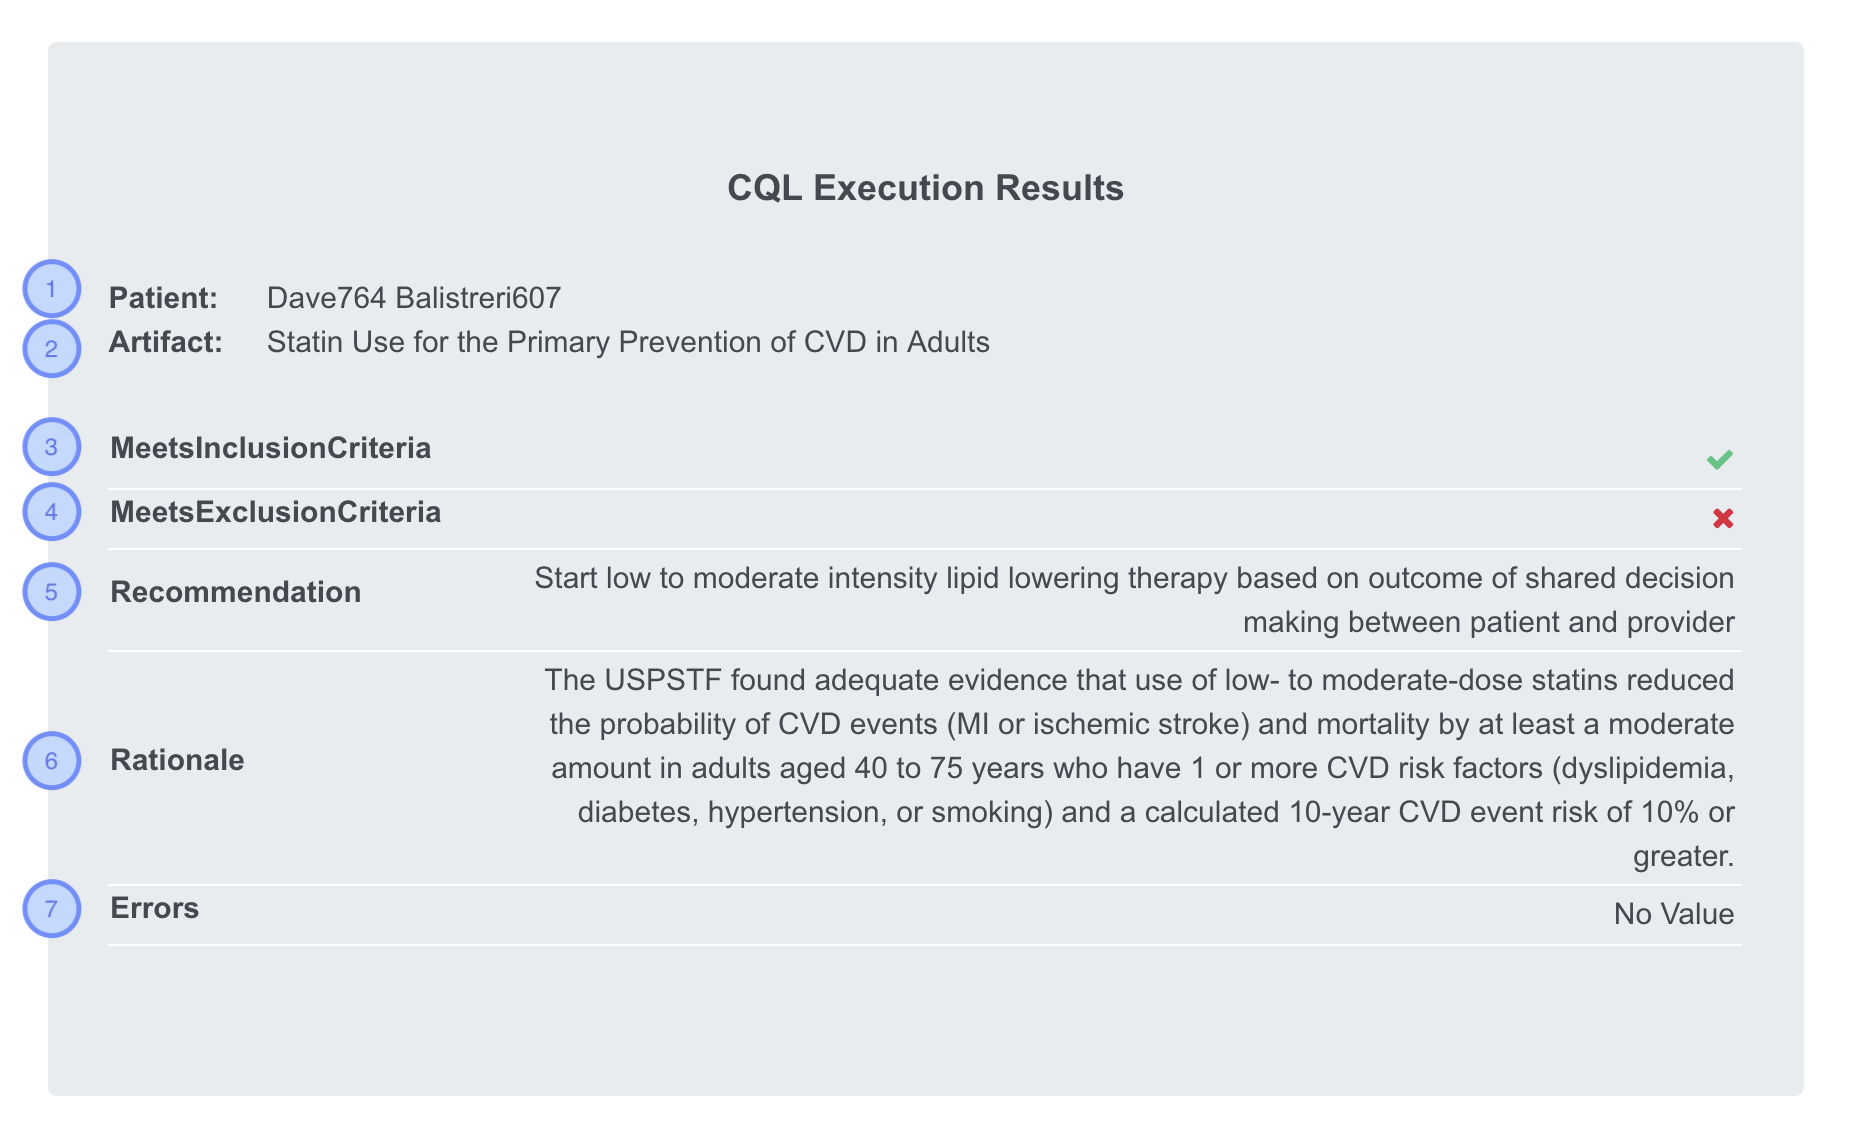
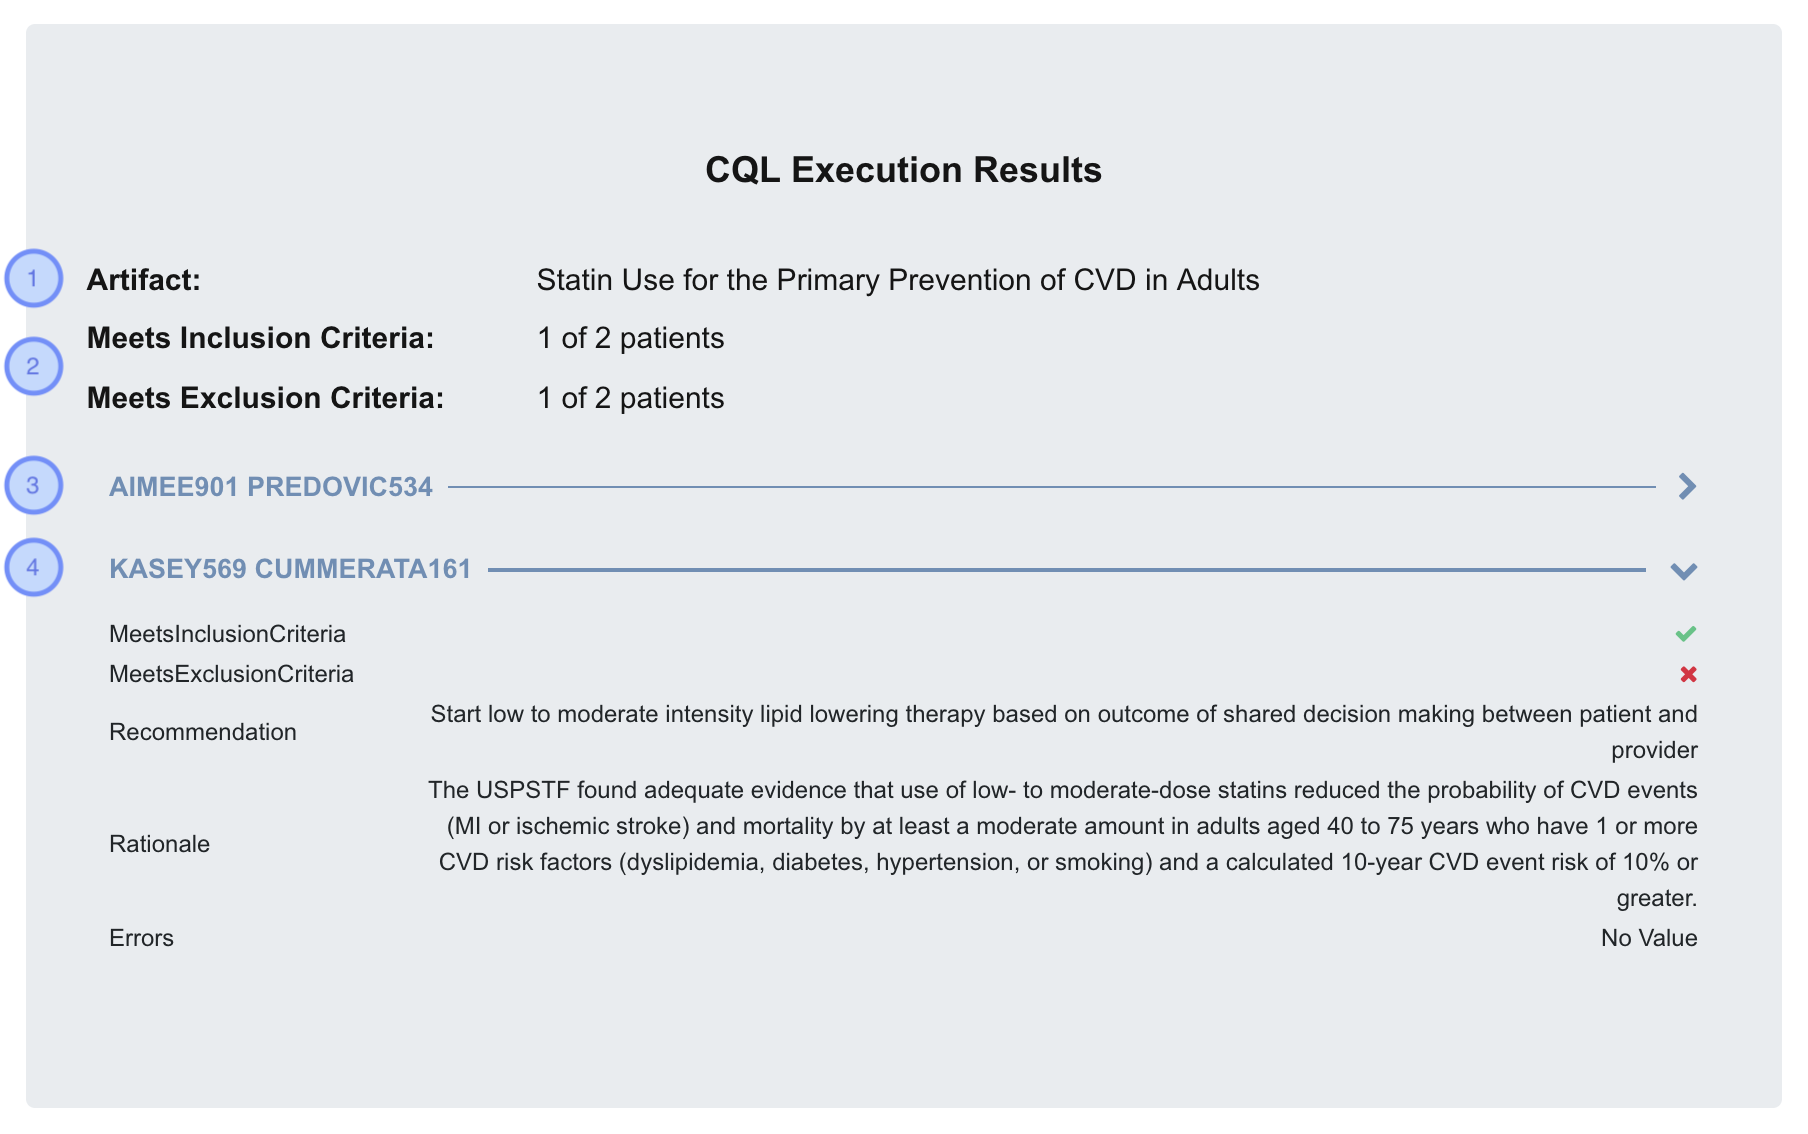
Update user guide to reflect multi-patient testing changes

diff --git a/frontend/src/components/UserGuide.js b/frontend/src/components/UserGuide.js
@@ -1389,7 +1389,7 @@ export default class UserGuide extends Component {
 
                 <p>
                   The Testing tab is the main location to test that artifacts are behaving as expected when their CQL is executed
-                  against a patient.
+                  against synthetic patients.
                 </p>
 
                 <p>
@@ -1418,16 +1418,17 @@ export default class UserGuide extends Component {
                   </li>
 
                   <li>
+                    A disabled "Execute CQL on Selected Patients" button that will only be enabled once the user has authenticated
+                    with VSAC and has selected patients to test.
+                  </li>
+
+                  <li>
                     A table that displays some information about any patients associated to the user that are already in the
-                    database.
+                    database, and allows users to select patients to test.
                   </li>
 
                   <li>
-                    A "View" button that displays for a patient, which opens a modal to view the JSON FHIR Bundle in detail.
-                  </li>
-
-                  <li>
-                    A disabled "Execute CQL" button that will only be enabled once the user has authenticated with VSAC.
+                    A "View" button that displays a modal to view the JSON FHIR Bundle of a given patient in detail.
                   </li>
 
                   <li>
@@ -1456,7 +1457,16 @@ export default class UserGuide extends Component {
                   </li>
 
                   <li>
-                    The "Execute CQL" button for each patient is now enabled. Clicking on this button opens the Execute CQL Modal.
+                    The "Execute CQL on Selected Patients" button is now enabled. Clicking on this button
+                    opens the Execute CQL Modal.
+                  </li>
+
+                  <li>
+                    Any patient that is checked on the left side of the table has been selected for testing.
+                  </li>
+
+                  <li>
+                    A patient that has been selected cannot be deleted until it is deselected.
                   </li>
                 </ol>
               </div>
@@ -1478,12 +1488,8 @@ export default class UserGuide extends Component {
 
                 <ol>
                   <li>
-                    The name of the patient that was chosen for CQL execution.
-                  </li>
-
-                  <li>
-                    A dropdown that displays all the user's artifacts, allowing the user to choose which artifact should be used
-                    for CQL execution.
+                    A dropdown that displays all of the user's artifacts that are FHIR compatible with the selected patients.
+                    This allows the user to choose which artifact should be used for CQL execution.
                   </li>
 
                   <li>
@@ -1492,8 +1498,8 @@ export default class UserGuide extends Component {
                   </li>
 
                   <li>
-                    The "Execute CQL" button which runs the selected artifact's CQL against the selected patient for testing.
-                    The artifact CQL that is used for testing automatically matches the patient's FHIR version.
+                    The "Execute CQL" button which runs the selected artifact's CQL against the selected patients for testing.
+                    The artifact CQL that is used for testing automatically matches the patients' FHIR version.
                   </li>
                 </ol>
               </div>
@@ -1514,35 +1520,47 @@ export default class UserGuide extends Component {
 
                 <ol>
                   <li>
-                    The name of the patient that was used for testing.
-                  </li>
-
-                  <li>
                     The name of the artifact whose CQL was tested.
                   </li>
 
                   <li>
-                    An indication of whether the patient met the Artifact's inclusion criteria. In this case, the patient did meet
-                    the inclusion criteria.
+                    An indication of how many patients tested met the Artifact's inclusion criteria and exclusion criteria.
                   </li>
+
+                  <li>
+                    The collapsed execution results for one of the tested patients. This can be expanded by clicking
+                    on the patient's name.
+                  </li>
+
+                  <li>
+                    The expanded execution results for one of the tested patients. This can be collapsed by clicking
+                    on the patient's name. Details of the results are as follows.
+                  </li>
+
+                  <ul>
+                    <li>
+                      An indication of whether the patient met the Artifact's inclusion criteria. In this case,
+                      the patient did meet the inclusion criteria.
+                    </li>
 
                     <li>
-                    An indication of whether the patient met the Artifact's exclusion criteria. In this case, the patient did not
-                    meet the exclusion criteria.
-                  </li>
+                      An indication of whether the patient met the Artifact's exclusion criteria. In this case,
+                      the patient did not meet the exclusion criteria.
+                    </li>
 
-                  <li>
-                    The Recommendation from the artifact, given the result of the CQL execution.
-                  </li>
+                    <li>
+                      The Recommendation from the artifact, given the result of the CQL execution.
+                    </li>
 
-                  <li>
-                    The Rationale for the Recommendation from the artifact.
-                  </li>
+                    <li>
+                      The Rationale for the Recommendation from the artifact.
+                    </li>
 
 
-                  <li>
-                    Any Errors that occurred during the CQL Execution. In this case, there were no errors.
-                  </li>
+                    <li>
+                      Any Errors that occurred during the CQL Execution. In this case, there were no errors.
+                    </li>
+                  </ul>
                 </ol>
               </div>
             </div>
